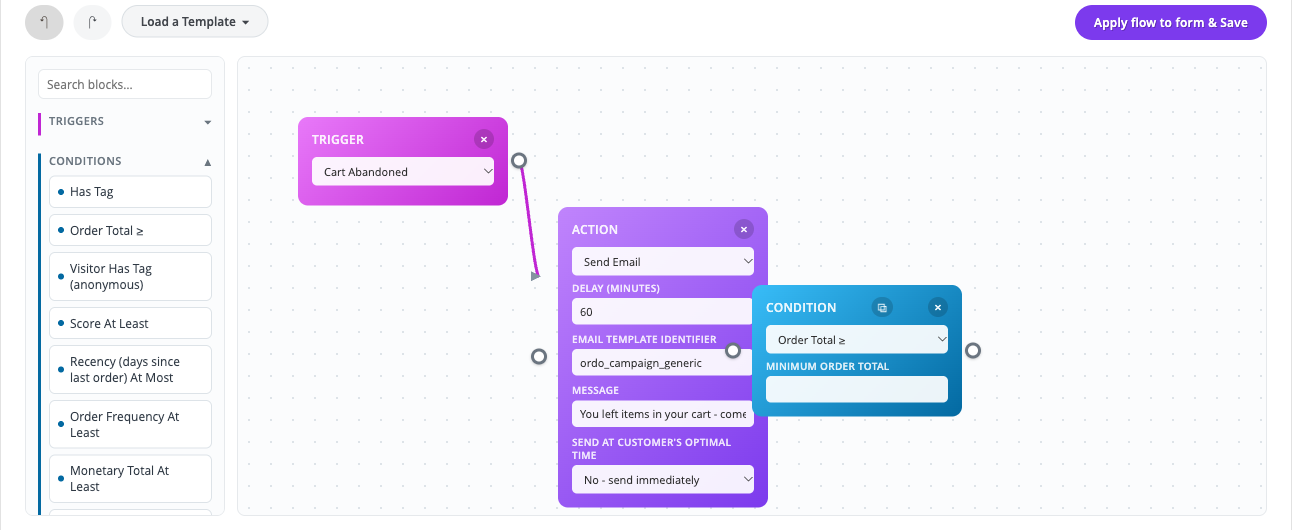
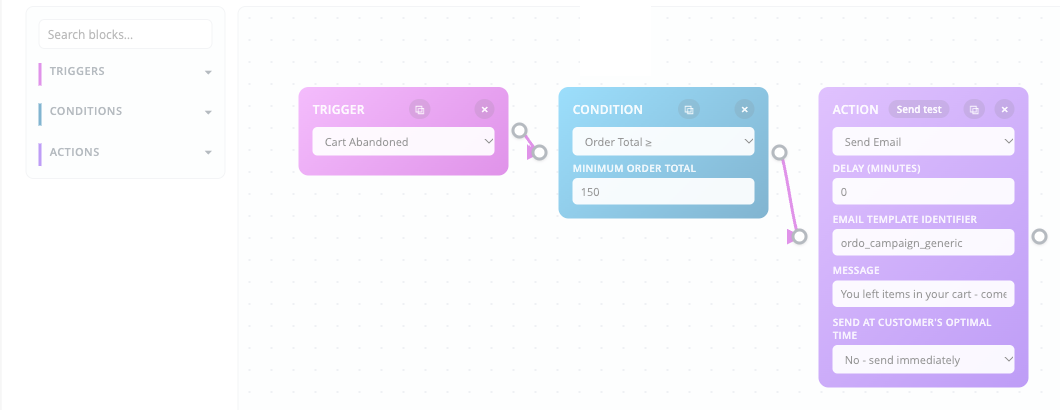
fix: Flow canvas nodes could land outside the visible viewport (#211)
* fix: Flow canvas nodes could land outside the visible viewport

Reported directly: clicking "Load a Template" placed a new node chain past
the edge of the visible canvas with no way to reach it - getNextTemplateStartX()
only ever grows rightward as more gets added, and nothing ever brought the
view back to what was just placed.

Adds fitCanvasToView(), which rescales/pans the canvas so every node on it
fits the visible viewport (only ever zooming out, never in past 1x), called
automatically right after applyTemplate() so this can't recur, plus a manual
"Fit to View" (⤢) toolbar button for the same case after building by hand.
Also adds a "Full Screen" (⛶) button (native Fullscreen API on the whole Flow
card) for more working room before hitting the edge is even a concern -
re-fits on entering/exiting since the viewport size changes.

Verified against a live 2.4.9 sandbox: loading a 3-node template ("Post-Purchase
Thank You + Coupon") on top of existing nodes previously placed the new chain
off-screen; with this change all nodes land fully visible immediately.

* fix: connection arrowhead marker was practically invisible

Reported directly against the README's own Flow canvas screenshot: no visible
arrows on the connection lines. Real cause found in the live sandbox - the
marker was never actually broken, just 10x10 in a grey (#8493a0) barely
distinguishable from the canvas background, capping a 3px-wide magenta line
[…]

diff --git a/view/adminhtml/web/js/campaign-flow-editor.js b/view/adminhtml/web/js/campaign-flow-editor.js
@@ -480,13 +480,20 @@ define([
                 // stroke-width, so the marker was rendering at wildly different, tiny sizes
                 // depending on the connection, which looked like a detached, misplaced arrow
                 // rather than one cleanly capping the line.
+                //
+                // Reported directly: at the original 10x10 size in flow.css's own grey
+                // (#8493a0), the arrowhead was essentially invisible against the 3px-wide,
+                // brighter magenta connection line (.ordo-flow-canvas .connection .main-path) -
+                // readable at 100% browser zoom if you looked closely, but gone entirely once
+                // shrunk into a screenshot. 16x16 and the same magenta as the line it caps reads
+                // clearly at both sizes.
                 marker.setAttribute('markerUnits', 'userSpaceOnUse');
-                marker.setAttribute('markerWidth', '10');
-                marker.setAttribute('markerHeight', '10');
+                marker.setAttribute('markerWidth', '16');
+                marker.setAttribute('markerHeight', '16');
                 marker.setAttribute('orient', 'auto');
 
                 path.setAttribute('d', 'M0,0 L10,5 L0,10 z');
-                path.setAttribute('fill', '#8493a0');
+                path.setAttribute('fill', '#c026d3');
 
                 marker.appendChild(path);
                 svg.innerHTML = '<defs></defs>';
@@ -1035,6 +1042,62 @@ define([
             }
 
             /**
+             * Rescales/pans the canvas so every node currently on it fits inside the visible
+             * viewport - reported directly: clicking "Load a Template" (or building far enough
+             * to the right by hand) could place nodes past the edge of the visible canvas with
+             * no way to reach them, since getNextTemplateStartX() only ever grows rightward and
+             * nothing ever brought the view back to what it just added. Only ever zooms OUT to
+             * fit (never in past 1x just because the content happens to be small), same
+             * reasoning as a "zoom to fit" button in any diagramming tool.
+             */
+            function fitCanvasToView() {
+                var $nodes = $(container).find('.drawflow-node'),
+                    padding = 40,
+                    containerWidth = container.clientWidth || 900,
+                    containerHeight = container.clientHeight || 460,
+                    minX = Infinity,
+                    minY = Infinity,
+                    maxX = -Infinity,
+                    maxY = -Infinity,
+                    contentWidth,
+                    contentHeight,
+                    scale;
+
+                if (!$nodes.length) {
+                    return;
+                }
+
+                $nodes.each(function () {
+                    var left = Number.parseFloat(this.style.left) || 0,
+                        top = Number.parseFloat(this.style.top) || 0,
+                        width = this.offsetWidth || 220,
+                        height = this.offsetHeight || 120;
+
+                    minX = Math.min(minX, left);
+                    minY = Math.min(minY, top);
+                    maxX = Math.max(maxX, left + width);
+                    maxY = Math.max(maxY, top + height);
+                });
+
+                contentWidth = Math.max(maxX - minX, 1);
+                contentHeight = Math.max(maxY - minY, 1);
+
+                scale = Math.min(
+                    1,
+                    (containerWidth - padding * 2) / contentWidth,
+                    (containerHeight - padding * 2) / contentHeight
+                );
+                scale = Math.max(scale, editor.zoom_min || 0.2);
+
+                editor.zoom = scale;
+                editor.zoom_last_value = scale;
+                editor.canvas_x = padding - minX * scale;
+                editor.canvas_y = padding - minY * scale;
+                editor.precanvas.style.transform =
+                    'translate(' + editor.canvas_x + 'px, ' + editor.canvas_y + 'px) scale(' + editor.zoom + ')';
+            }
+
+            /**
              * Adds one template's whole node chain to the canvas and wires it trigger ->
              * condition(s) -> action(s) in the order given, left to right, starting clear of
              * every existing node (see getNextTemplateStartX()) rather than at a random spot
@@ -1081,11 +1144,45 @@ define([
 
                     previousNodeId = nodeId;
                 });
+
+                fitCanvasToView();
             }
 
             $(document).on('click', '[data-flow-template]', function () {
                 applyTemplate($(this).attr('data-flow-template'));
                 $(this).closest('details.ordo-flow-templates').removeAttr('open');
+            });
+
+            $(container).closest('.ordo-flow-wrapper').on('click', '[data-flow-action="fit"]', function () {
+                fitCanvasToView();
+            });
+
+            // Fullscreen API is unavailable in jsdom (this module's own test environment) and on
+            // some older browsers - guarded so the button is a silent no-op there instead of
+            // throwing, rather than gating the whole toolbar behind a feature check.
+            $(container).closest('.ordo-flow-wrapper').on('click', '[data-flow-action="fullscreen"]', function () {
+                var wrapperEl = $(this).closest('.ordo-flow-wrapper').get(0);
+
+                if (document.fullscreenElement) {
+                    if (typeof document.exitFullscreen === 'function') {
+                        document.exitFullscreen();
+                    }
+                } else if (wrapperEl && typeof wrapperEl.requestFullscreen === 'function') {
+                    wrapperEl.requestFullscreen();
+                }
+            });
+
+            // The canvas has far more visible room in full screen (or loses it, leaving), and a
+            // merchant would otherwise have to reach for "Fit to View" themselves every time.
+            $(document).on('fullscreenchange', function () {
+                var $wrapper = $(container).closest('.ordo-flow-wrapper'),
+                    isFullscreen = document.fullscreenElement === $wrapper.get(0);
+
+                $wrapper.find('[data-flow-action="fullscreen"]')
+                    .text(isFullscreen ? '⤡' : '⛶')
+                    .attr('title', isFullscreen ? 'Exit Full Screen' : 'Full Screen');
+
+                fitCanvasToView();
             });
 
             /**

diff --git a/Test/js/campaign-flow-editor.test.js b/Test/js/campaign-flow-editor.test.js
@@ -519,6 +519,8 @@ QUnit.module('Ordo_Automation/js/campaign-flow-editor initCampaignFlowEditor()',
             + '<div class="ordo-flow-toolbar">'
             + '<button data-flow-action="undo"></button>'
             + '<button data-flow-action="redo"></button>'
+            + '<button data-flow-action="fit"></button>'
+            + '<button data-flow-action="fullscreen"></button>'
             + '<button data-flow-action="apply">Apply</button>'
             + '</div>'
             + '<div id="canvas"></div>'
@@ -558,6 +560,22 @@ QUnit.module('Ordo_Automation/js/campaign-flow-editor initCampaignFlowEditor()',
 
         assert.strictEqual(nodeIds.length, 3);
         assert.strictEqual(global.$('.drawflow-node').length, 3);
+    });
+
+    QUnit.test('the connection arrowhead marker is sized and colored to actually be visible', function (assert) {
+        initEditor();
+
+        // Regression coverage for a directly reported readability bug: the original 10x10 grey
+        // (#8493a0) marker was nearly invisible against the 3px-wide magenta connection line
+        // (.ordo-flow-canvas .connection .main-path in flow.css) - present, but not something a
+        // merchant (or a screenshot) would actually notice.
+        const marker = global.document.getElementById('ordo-flow-arrowhead');
+        const path = marker.querySelector('path');
+
+        assert.ok(marker, 'the marker is injected into the document');
+        assert.strictEqual(marker.getAttribute('markerWidth'), '16');
+        assert.strictEqual(marker.getAttribute('markerHeight'), '16');
+        assert.strictEqual(path.getAttribute('fill'), '#c026d3', 'matches .main-path\'s own stroke color');
     });
 
     QUnit.test('buildChain() fans multiple consecutive triggers into the same next node', function (assert) {
@@ -1164,6 +1182,71 @@ QUnit.module('Ordo_Automation/js/campaign-flow-editor initCampaignFlowEditor()',
         global.$('[data-flow-template="does-not-exist"]').trigger('click');
 
         assert.strictEqual(global.$('.drawflow-node').length, 0);
+    });
+
+    QUnit.test('loading a template re-fits the canvas so the new nodes land in view', function (assert) {
+        const container = initEditor();
+
+        // Regression coverage for a directly reported bug: getNextTemplateStartX() only ever
+        // grows rightward, so loading a template could place its nodes past whatever was
+        // visible with no way back to them. Asserting the canvas's own transform actually
+        // changed from Drawflow's untouched default is as far as jsdom (no real layout, every
+        // node measures 0x0) can verify this without a real browser - the real-browser behavior
+        // (scale/position actually fit the content) is exercised by fitCanvasToView() itself
+        // being pure arithmetic over style.left/top, already covered indirectly by every other
+        // test in this file that reads style.left back.
+        const beforeTransform = global.$(container).find('.drawflow').css('transform');
+
+        global.$(global.document.body).append(
+            '<details class="ordo-flow-templates" open><button data-flow-template="abandoned_cart"></button></details>'
+        );
+        global.$('[data-flow-template="abandoned_cart"]').trigger('click');
+
+        assert.notStrictEqual(
+            global.$(container).find('.drawflow').css('transform'),
+            beforeTransform,
+            'fitCanvasToView() ran (and did not throw) after applyTemplate()'
+        );
+    });
+
+    // ------------------------------------------------------------------
+    // "Fit to View" / "Full Screen" toolbar buttons
+    // ------------------------------------------------------------------
+
+    QUnit.test('"Fit to View" is a no-op on an empty canvas instead of throwing', function (assert) {
+        initEditor();
+
+        assert.strictEqual(global.$('.drawflow-node').length, 0);
+
+        global.$('[data-flow-action="fit"]').trigger('click');
+
+        assert.strictEqual(global.$('.drawflow-node').length, 0, 'still no nodes - nothing to fit, nothing changed');
+    });
+
+    QUnit.test('"Fit to View" rescales the canvas around every node currently on it', function (assert) {
+        const container = initEditor();
+
+        global.window.ordoFlowTestHook.buildChain([
+            { kind: 'trigger', type: 'order_placed' },
+            { kind: 'action', type: 'add_tag', fields: { tag: 'thanked' } }
+        ]);
+
+        global.$('[data-flow-action="fit"]').trigger('click');
+
+        assert.ok(
+            global.$(container).find('.drawflow').css('transform'),
+            'a transform was applied to the canvas'
+        );
+    });
+
+    QUnit.test('"Full Screen" does not throw when the Fullscreen API is unavailable (this test environment)', function (assert) {
+        initEditor();
+
+        assert.strictEqual(typeof global.document.exitFullscreen, 'undefined');
+
+        global.$('[data-flow-action="fullscreen"]').trigger('click');
+
+        assert.ok(true, 'clicking the button did not throw even without a real Fullscreen API');
     });
 
     // ------------------------------------------------------------------

diff --git a/view/adminhtml/web/css/flow.css b/view/adminhtml/web/css/flow.css
@@ -97,6 +97,48 @@
     cursor: default;
 }
 
+.ordo-flow-fit,
+.ordo-flow-fullscreen {
+    background: #f4f5f6;
+    border-color: #dadfe3;
+    color: #41454b;
+    padding: 7px 12px !important;
+    font-size: 14px !important;
+}
+
+.ordo-flow-fit:hover,
+.ordo-flow-fullscreen:hover {
+    background: #e9ebee;
+}
+
+/* Full Screen (button above) puts the whole Flow card into the browser's native full-screen
+   mode - the canvas keeps its fixed 460px height otherwise (see .ordo-flow-canvas below), which
+   is exactly the cramped view a merchant is trying to escape. `:-webkit-full-screen` covers
+   older WebKit; standard `:fullscreen` covers everything current. */
+.ordo-flow-wrapper:fullscreen,
+.ordo-flow-wrapper:-webkit-full-screen {
+    display: flex;
+    flex-direction: column;
+    background: #fff;
+    overflow: auto;
+}
+
+.ordo-flow-wrapper:fullscreen .ordo-flow-body,
+.ordo-flow-wrapper:-webkit-full-screen .ordo-flow-body {
+    flex: 1 1 auto;
+    min-height: 0;
+}
+
+.ordo-flow-wrapper:fullscreen .ordo-flow-canvas,
+.ordo-flow-wrapper:-webkit-full-screen .ordo-flow-canvas {
+    height: 100%;
+}
+
+.ordo-flow-wrapper:fullscreen .ordo-flow-palette,
+.ordo-flow-wrapper:-webkit-full-screen .ordo-flow-palette {
+    max-height: none;
+}
+
 .ordo-flow-toolbar button[data-flow-action="apply"] {
     /* Brand accent violet, shared with the dashboard's --ordo-primary; #7c3aed against
        white text reaches ~5.5:1, above WCAG AA's 4.5:1 for normal text. */
